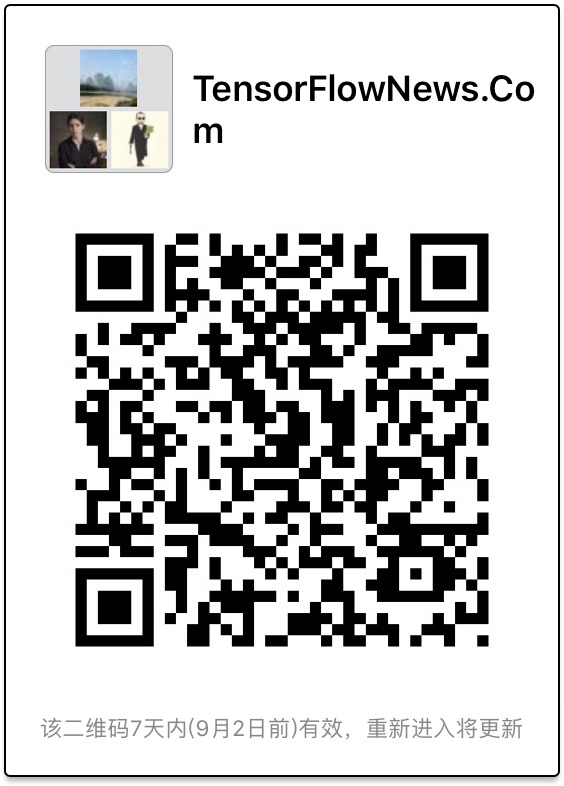
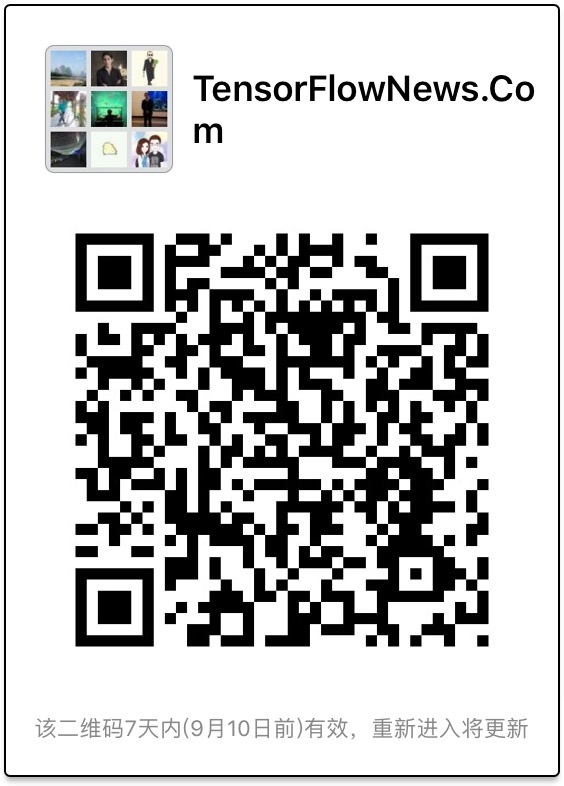
update

diff --git a/readme.md b/readme.md
@@ -43,6 +43,8 @@ http://www.tensorflownews.com/
 ## WechatGroup
 ![Result Pic](https://github.com/fendouai/FaceRank/blob/master/wechatgroup.jpg)
 
+If it is out of time,you can go to http://www.tensorflownews.com/ ,I will update the wechat group qcode here.
+
 ## Thanks 
 @HadXu develop the keras version
 https://github.com/fendouai/FaceRank/tree/master/FaceRank_with_keras

diff --git a/cn_readme.md b/cn_readme.md
@@ -60,3 +60,5 @@ Test Finished!
 
 ## 微信群：
 ![Result Pic](https://github.com/fendouai/FaceRank/blob/master/wechatgroup.jpg)
+
+如果二维码过期，请到这里 http://www.tensorflownews.com/ 会保持更新。
